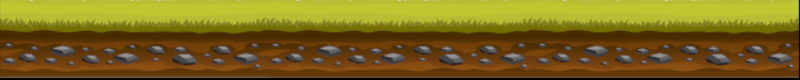
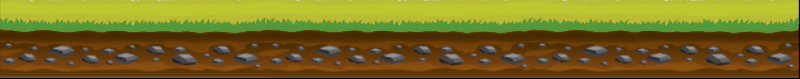
create class Mushroom

diff --git a/src/game.py b/src/game.py
@@ -6,6 +6,7 @@ from state_classes import Intro, Menu, Legend, Score
 from classes.class_player import Player
 from classes.class_ground import Ground
 from classes.class_bullet import Bullet
+from classes.class_mushroom import Mushroom
 
 
 # ================================================================= TEST imported classes
@@ -18,6 +19,7 @@ level = 1
 player_group = pygame.sprite.GroupSingle()
 ground_group = pygame.sprite.Group()
 bullets_group = pygame.sprite.Group()
+mushroom_group = pygame.sprite.Group()
 
 # add to all_sprite_groups
 all_spite_groups_dict = {'player': player_group, 'ground': ground_group, 'bullets': bullets_group}
@@ -29,14 +31,14 @@ player = Player(Bullet, all_spite_groups_dict)
 ground = Ground()
 # ground2 = Ground('../src/assets/images/ground/2.png', 100, SCREEN_HEIGHT - 150)
 # ground3 = Ground('../src/assets/images/ground/2.png', 400, SCREEN_HEIGHT - 170)
-
+mushroom = Mushroom()
 
 # add to group
 player_group.add(player)
 ground_group.add(ground)
 # for test before create classes group
 # bullets_group.add(bullet)
-
+mushroom_group.add(mushroom)
 
 # =======================================================================
 # Game State
@@ -46,6 +48,33 @@ class GameState(Sound):
         self.state = 'intro'
         self.current_music = Sound.intro_music(self)
         self.is_music_play = False
+
+    def start_game(self,):
+        # developer utils
+        text_creator(26, f'Direction: x= {int(player.direction.x)} y= {int(player.direction.y)}', 'white', 90, 10)
+        text_creator(26, f'Pos: x= {int(player.pos.x)} y= {int(player.pos.y)}', 'white', 80, 30)
+        text_creator(26, f'Vel: x= {player.velocity.x:.2f} y= {player.velocity.y:.2f} ', 'white', 90, 50)
+        text_creator(26, f'Acc: x= {player.acceleration.x:.2f} y= {player.acceleration.y:.2f}', 'white', 90, 70)
+
+        if level == 1:
+            if not self.is_music_play:
+                # self.current_music = Sound.forest_music_level_one(self)
+                self.is_music_play = True
+
+            # draw bg loop animation
+            background_image('../src/assets/images/backgrounds/bg_forest.png', 0, GROUND_HEIGHT_SIZE, True)
+
+            # draw sprite group
+            ground_group.draw(SCREEN)
+            player_group.draw(SCREEN)
+            bullets_group.draw(SCREEN)
+            mushroom_group.draw(SCREEN)
+
+            # update sprite group
+            ground_group.update()
+            player_group.update()
+            bullets_group.update()
+            mushroom_group.update()
 
     def intro(self):
         Intro()
@@ -62,31 +91,6 @@ class GameState(Sound):
     def score(self):
         Score()
         Score().event(self)
-
-    def start_game(self,):
-        # developer utils
-        text_creator(26, f'Direction: x= {int(player.direction.x)} y= {int(player.direction.y)}', 'white', 90, 10)
-        text_creator(26, f'Pos: x= {int(player.pos.x)} y= {int(player.pos.y)}', 'white', 80, 30)
-        text_creator(26, f'Vel: x= {player.velocity.x:.2f} y= {player.velocity.y:.2f} ', 'white', 90, 50)
-        text_creator(26, f'Acc: x= {player.acceleration.x:.2f} y= {player.acceleration.y:.2f}', 'white', 90, 70)
-
-        if level == 1:
-            if not self.is_music_play:
-                # self.current_music = Sound.forest_music_level_one(self)
-                self.is_music_play = True
-
-            # draw bg loop animation
-            background_image('../src/assets/images/backgrounds/bg_forest_2.png', 0, 102., True)
-
-            # draw sprite group
-            ground_group.draw(SCREEN)
-            player_group.draw(SCREEN)
-            bullets_group.draw(SCREEN)
-
-            # update sprite group
-            ground_group.update()
-            player_group.update()
-            bullets_group.update()
 
     def state_manager(self):
         # print(self.state)

diff --git a/src/classes/class_ground.py b/src/classes/class_ground.py
@@ -1,16 +1,17 @@
 import pygame
-from src.settings import SCREEN_HEIGHT, SCREEN_WIDTH
+from src.settings import SCREEN_HEIGHT, SCREEN_WIDTH, GROUND_HEIGHT_SIZE
 
 
 class Ground(pygame.sprite.Sprite):
-    def __init__(self, picture='../src/assets/images/ground/gr_1.png', x=0, y=SCREEN_HEIGHT - 78):
+    def __init__(self, picture='../src/assets/images/ground/gr_1.png', x=0, y=SCREEN_HEIGHT - GROUND_HEIGHT_SIZE):
         pygame.sprite.Sprite.__init__(self)
-        self.image = pygame.image.load(picture).convert()
+        self.image = pygame.image.load(picture).convert_alpha()
         self.rect = self.image.get_bounding_rect(min_alpha=1)
         self.rect.x = x
         self.rect.y = y
 
     def update(self):
         pass
+        # pygame.mask.from_surface(self.image)
 
 

diff --git a/src/classes/class_mushroom.py b/src/classes/class_mushroom.py
@@ -1,0 +1,17 @@
+import pygame
+from src.settings import SCREEN_HEIGHT, SCREEN_WIDTH, GROUND_HEIGHT_SIZE
+
+
+class Mushroom(pygame.sprite.Sprite):
+    def __init__(self, picture='../src/assets/images/bullets/axe_32.png', x=400,
+                 y=SCREEN_HEIGHT - GROUND_HEIGHT_SIZE - 32 - 110):
+        pygame.sprite.Sprite.__init__(self)
+        self.image = pygame.image.load('../src/assets/images/mushroom/purple.png').convert_alpha()
+        self.rect = self.image.get_bounding_rect(min_alpha=1)
+        self.image_height = self.image.get_height()
+        self.rect.x = x
+        self.rect.y = y
+
+    def update(self):
+        pass
+        # pygame.mask.from_surface(self.image)

diff --git a/src/settings.py b/src/settings.py
@@ -25,6 +25,7 @@ CLOCK = pygame.time.Clock()
 FPS = 60
 
 # ==================================================================== local variables
+GROUND_HEIGHT_SIZE = 78
 bg_counter = 0
 
 
@@ -42,7 +43,6 @@ def background_image(image, x=0, y=0, loop=False, speed=1):
         if rel_x < SCREEN_WIDTH:
             SCREEN.blit(bg_image, (rel_x, 102))
         bg_counter -= speed
-
 
 
 # create text
